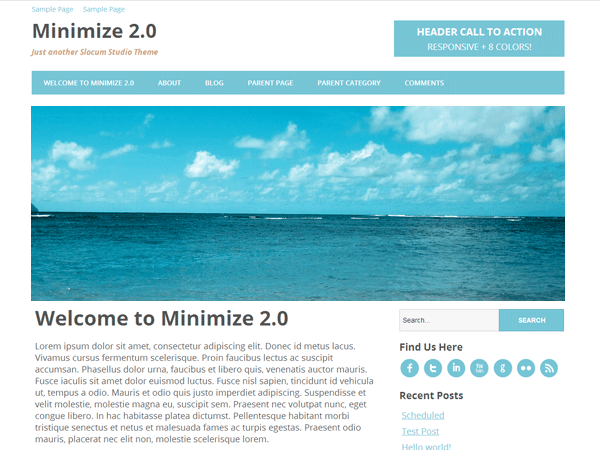
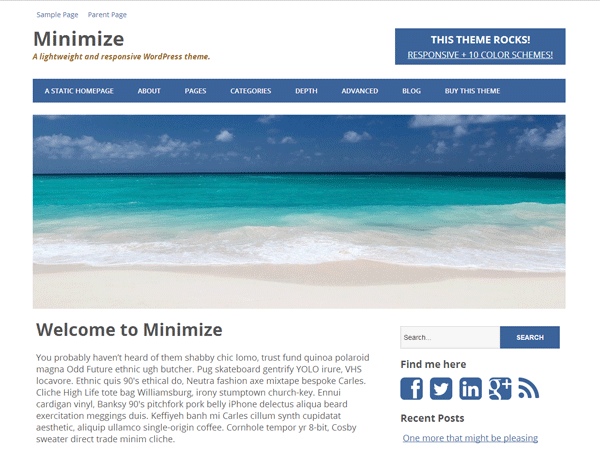
Version 2.1.4
- Added $theme_name variable to sds_copyright_branding filter as a
parameter
- Added margin to bottom of .front-page-slider elements
- Changed screenshot

diff --git a/style.css b/style.css
@@ -4,7 +4,7 @@ Theme URI: http://slocumstudio.com/wordpress-themes/minimize-free/
 Description: A lightweight and responsive WordPress theme. Great for a blog or to start a new project.
 Author: Slocum Design Studio
 Author URI: http://slocumstudio.com
-Version: 2.1.3
+Version: 2.1.4
 License: GPL2+
 License URI: http://www.gnu.org/licenses/gpl.html
 Tags: blue, green, orange, pink, purple, red, white, light, two-columns, left-sidebar, flexible-width, custom-colors, custom-menu, editor-style, featured-images, full-width-template, sticky-post, theme-options, threaded-comments
@@ -546,6 +546,10 @@ nav .primary-nav li a:hover{
 /*   -------------
 	  Home Slider
 	 -------------  */
+.front-page-slider {
+	margin-bottom: 1em;
+}
+
 .front-page-slider-title {
 	padding: 1em;
 	background: #bbb;

diff --git a/includes/theme-functions.php b/includes/theme-functions.php
@@ -312,7 +312,7 @@ if ( ! function_exists( 'sds_copyright' ) ) {
 			<?php echo apply_filters( 'sds_copyright', 'Copyright &copy; ' . date( 'Y' ) . ' <a href="' . esc_url( home_url() ) . '">' . get_bloginfo( 'name' ) . '</a>. All Rights Reserved.' ); ?>
 		</span>
 		<span class="slocum-credit">
-			<?php echo apply_filters( 'sds_copyright_branding', '<a href="http://slocumstudio.com/?utm_source=' . esc_url( home_url() ) . '&amp;utm_medium=footer-plugs&amp;utm_campaign=WordPressThemes" target="_blank">' . $theme_name . ' by Slocum Design Studio</a>' ); ?>
+			<?php echo apply_filters( 'sds_copyright_branding', '<a href="http://slocumstudio.com/?utm_source=' . esc_url( home_url() ) . '&amp;utm_medium=footer-plugs&amp;utm_campaign=WordPressThemes" target="_blank">' . $theme_name . ' by Slocum Design Studio</a>', $theme_name ); ?>
 		</span>
 	<?php
 	}

diff --git a/functions.php b/functions.php
@@ -139,3 +139,12 @@ if ( ! function_exists( 'sds_theme_options_help_support_tab_content' ) ) {
 	<?php
 	}
 }
+
+
+if ( ! function_exists( 'sds_copyright_branding' ) ) {
+	add_filter( 'sds_copyright_branding', 'sds_copyright_branding', 10, 2 );
+
+	function sds_copyright_branding( $text, $theme_name ) {
+		return '<a href="http://slocumstudio.com/wordpress-themes/minimize-free/?utm_source=' . esc_url( home_url() ) . '&amp;utm_medium=footer-plugs&amp;utm_campaign=WordPressThemes" target="_blank">' . $theme_name . ' by Slocum Design Studio</a>';
+	}
+}

diff --git a/includes/Minimize.php b/includes/Minimize.php
@@ -3,7 +3,7 @@
  * This class manages all functionality with our Minimize v2 theme.
  */
 class Minimize {
-	const MIN_VERSION = '2.1.3';
+	const MIN_VERSION = '2.1.4';
 
 	private static $instance; // Keep track of the instance
 
